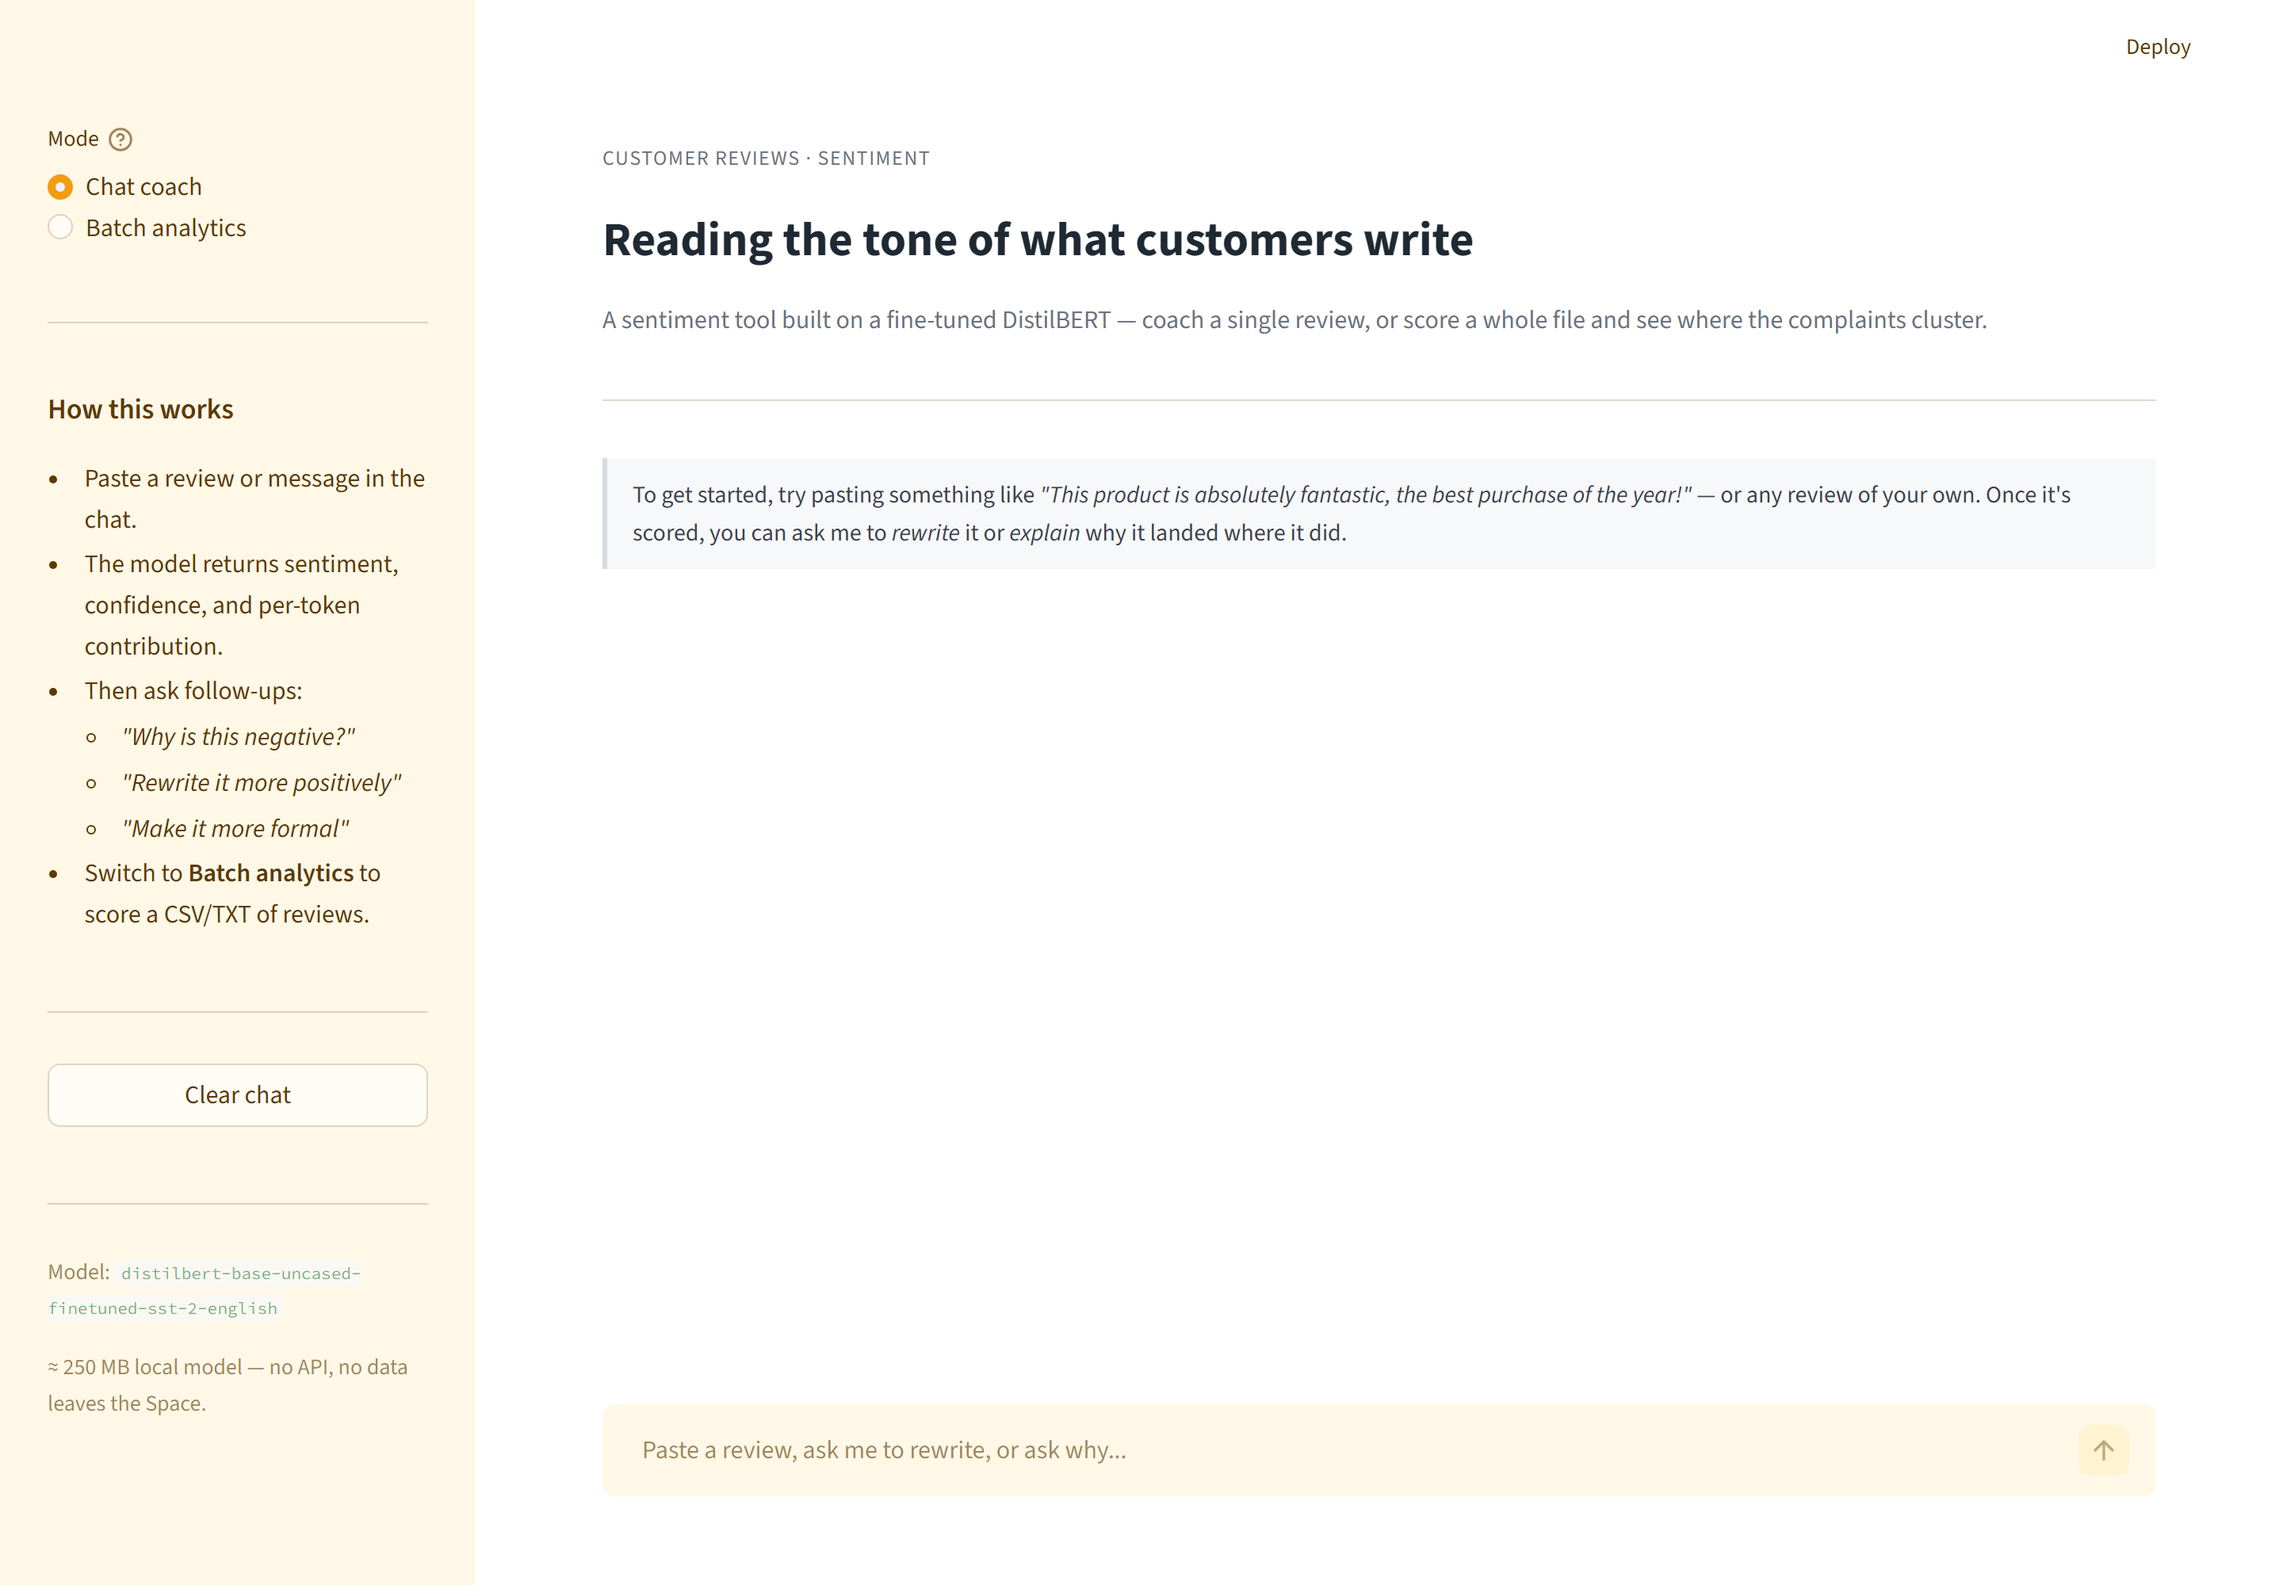
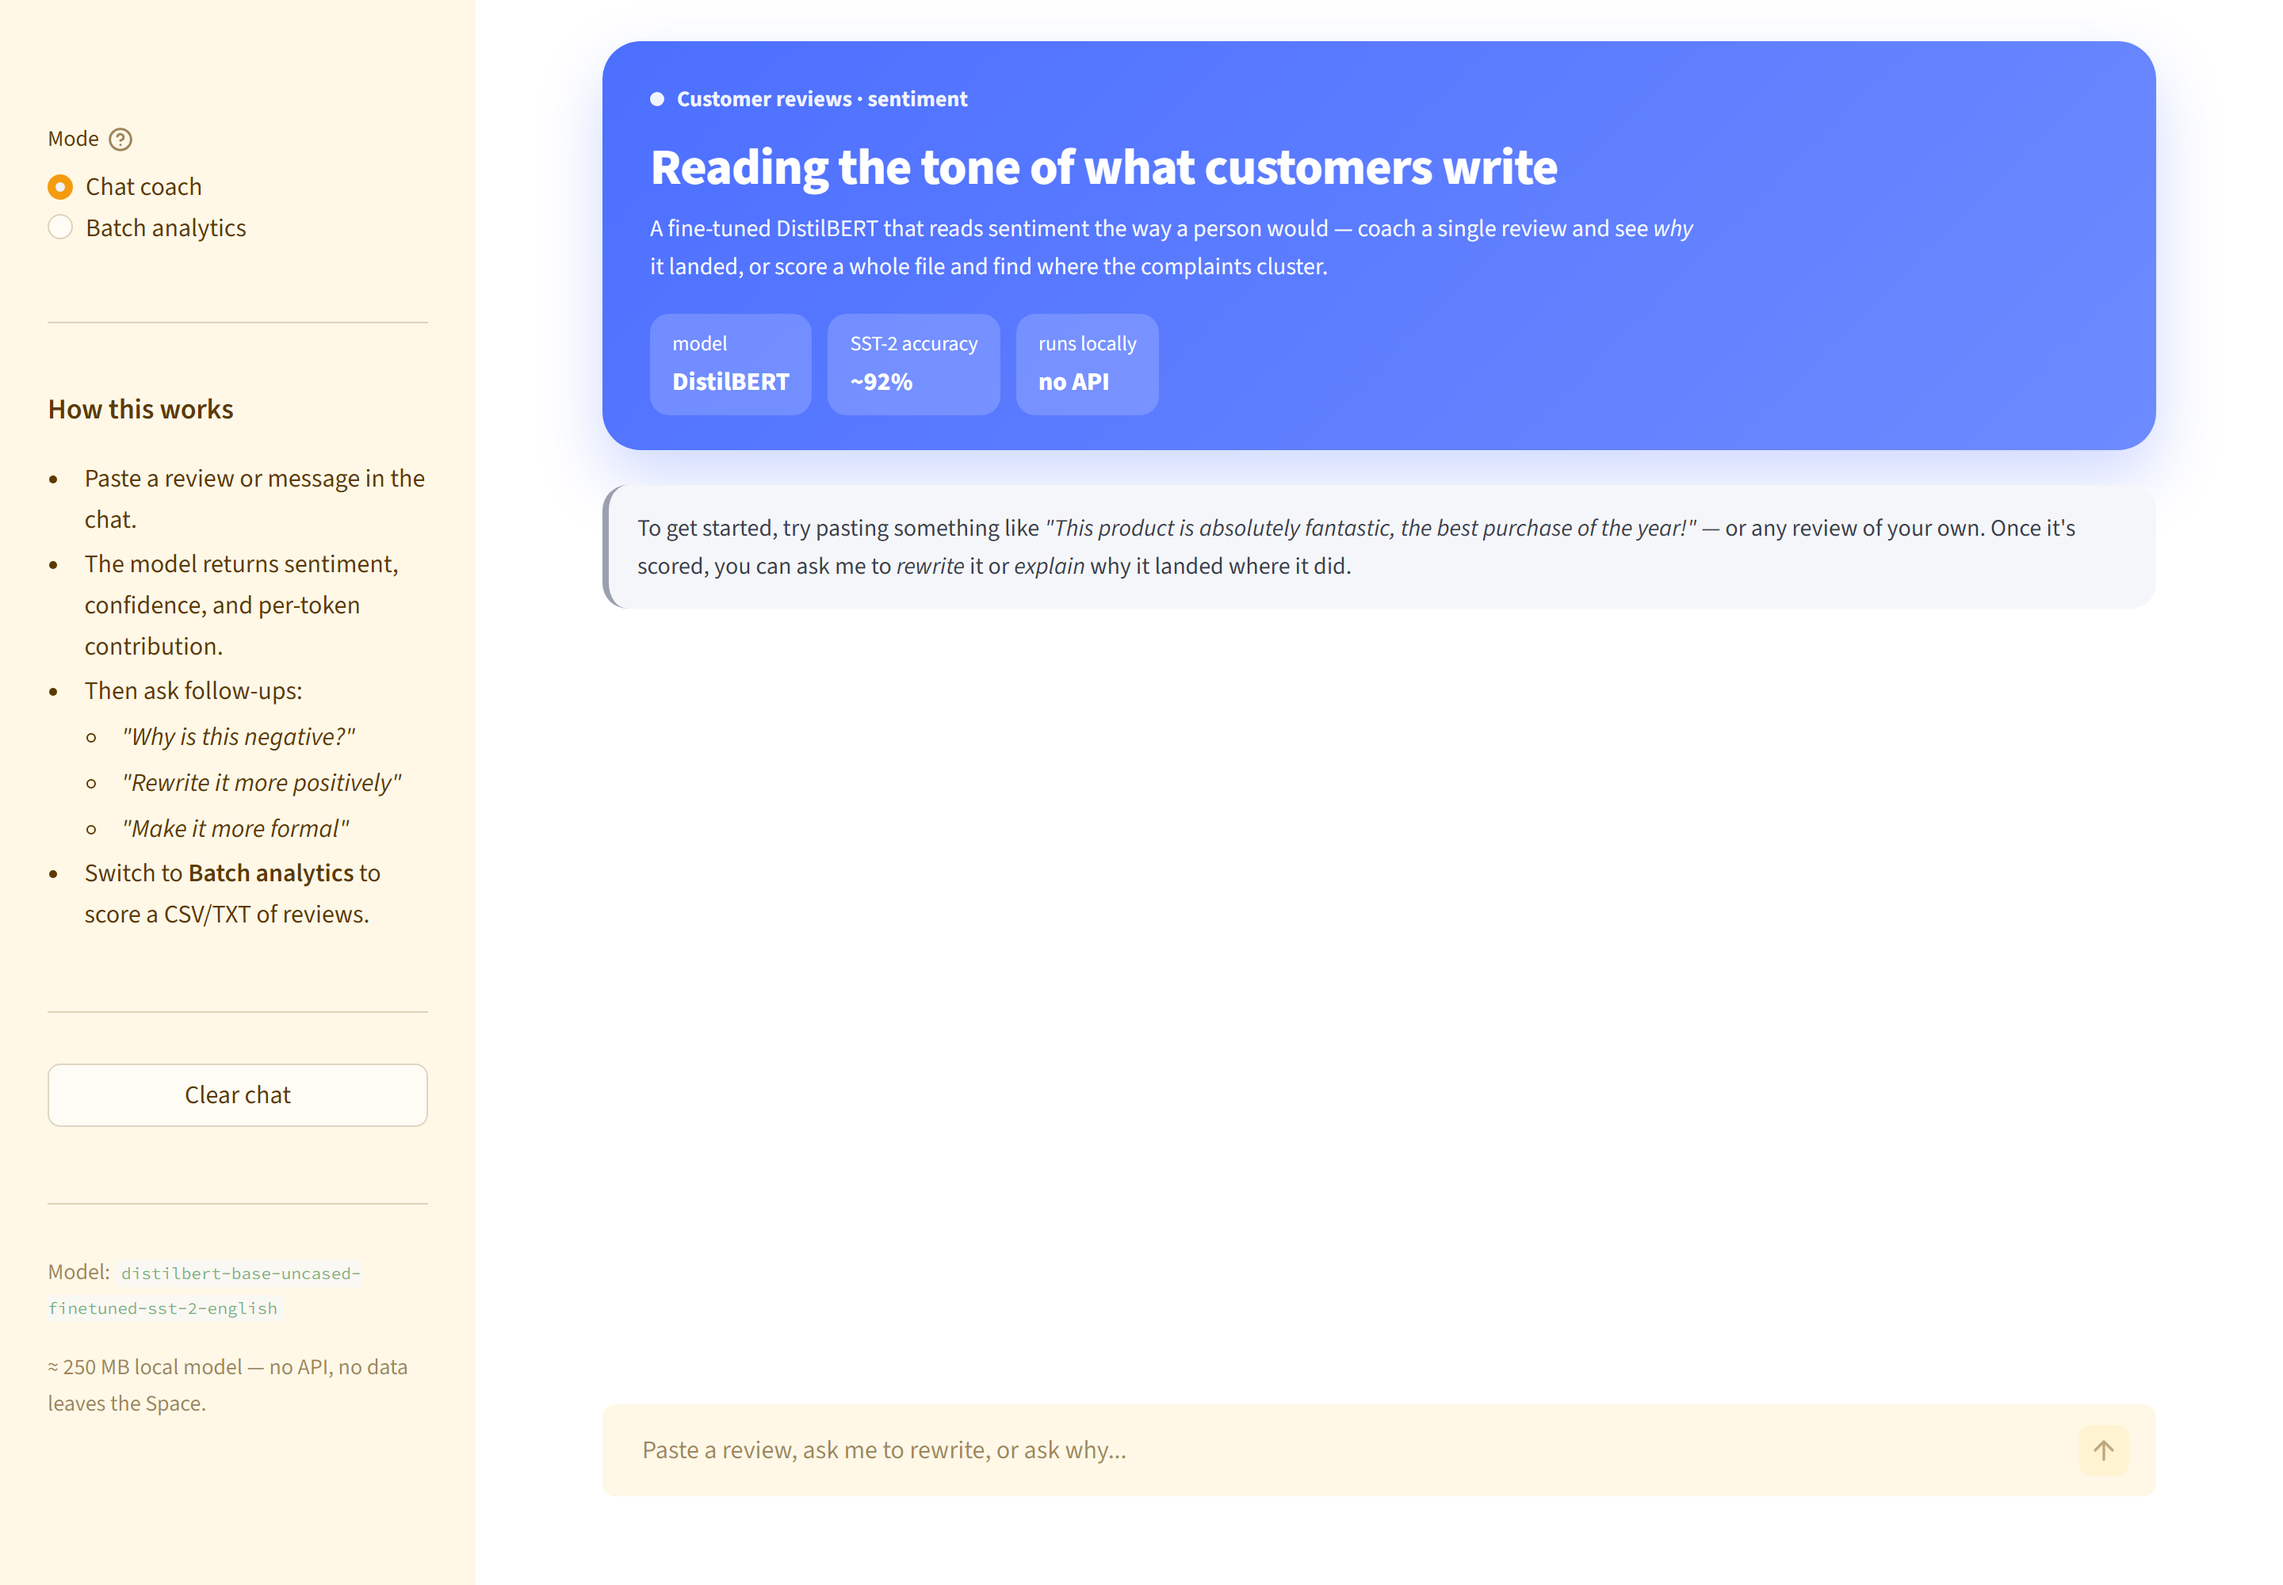
Redesign dashboard with a fintech-app look
Blue gradient hero with model-fact chips, metric cards, Manrope type and
a cohesive palette. Refresh the preview screenshot.

Changed region(s): [[0.25, 0.0, 0.9688, 0.372]]

diff --git a/dashboard.py b/dashboard.py
@@ -37,11 +37,19 @@ ASPECT_KEYWORDS: dict[str, list[str]] = {
                  "ticket", "response", "fix", "repair"],
 }
 
-# A calm, professional palette — not the marketing-hero template look.
-INK = "#1f2933"
-MUTED = "#6b7280"
-POS = "#4b9e7a"      # muted green for positive
-NEG = "#b4452f"      # warm brick for negative
+# ---- Fintech palette -------------------------------------------------------
+BRAND = "#4C6FFF"      # electric blue
+BRAND2 = "#6D8BFF"     # lighter blue, for the hero gradient
+INK = "#16161D"
+MUTED = "#5B6172"
+BODY = "#5B6172"
+GREY = "#9AA0AE"
+SOFT = "#F5F6FA"
+LINE = "#EEF0F4"
+FONT = "Manrope"
+POS = "#16B364"      # green for positive
+NEG = "#FF5A5F"      # coral for negative
+WARN = "#FB8C00"
 PLOT_TEMPLATE = "plotly_white"
 
 st.set_page_config(
@@ -53,48 +61,80 @@ st.set_page_config(
 st.markdown(
     f"""
     <style>
-    #MainMenu, footer {{visibility: hidden;}}
-    .badge {{
-        display: inline-block; padding: 4px 12px; border-radius: 20px;
-        font-size: 12px; font-weight: 700; letter-spacing: 0.6px;
-        color: white; margin: 0 4px;
+    @import url('https://fonts.googleapis.com/css2?family=Manrope:wght@400;500;600;700;800&display=swap');
+    html, body, [class*="css"], .stMarkdown, button, input, textarea {{
+        font-family: '{FONT}', system-ui, sans-serif;
     }}
-    .badge.pos {{ background: {POS}; }}
-    .badge.neg {{ background: {NEG}; }}
+    #MainMenu, header, footer {{ visibility: hidden; }}
+    .block-container {{ padding-top: 1.6rem; padding-bottom: 3rem; max-width: 1180px; }}
+
+    .badge {{ display:inline-block; padding:5px 14px; border-radius:999px;
+        font-size:12px; font-weight:700; letter-spacing:.6px; color:#fff; margin:0 4px; }}
+    .badge.pos {{ background:{POS}; }}
+    .badge.neg {{ background:{NEG}; }}
+
+    .hero {{ background: linear-gradient(135deg, {BRAND} 0%, {BRAND2} 100%);
+        border-radius: 24px; padding: 26px 30px 22px 30px; color:#fff;
+        box-shadow: 0 18px 40px rgba(76,111,255,.26); }}
+    .hero .brand {{ font-size:14px; font-weight:700; opacity:.92; display:flex;
+        align-items:center; gap:8px; }}
+    .hero .dot {{ width:9px; height:9px; border-radius:50%; background:#fff; display:inline-block; }}
+    .hero .value {{ font-size:32px; font-weight:800; line-height:1.12; margin-top:14px; letter-spacing:-.5px; }}
+    .hero .sub {{ font-size:15px; opacity:.95; margin-top:8px; max-width:660px; }}
+    .chips {{ display:flex; gap:10px; flex-wrap:wrap; margin-top:18px; }}
+    .chip {{ background: rgba(255,255,255,.18); border-radius:12px; padding:9px 14px; font-size:13px; }}
+    .chip b {{ font-size:16px; font-weight:800; display:block; }}
+
+    .callout {{ border-radius:16px; padding:15px 18px; margin:6px 0 20px 0;
+        font-size:15px; line-height:1.6; color:#3a3f4d; }}
+
+    [data-testid="stMetric"] {{ background:#fff; border:1px solid #F0F1F5; border-radius:16px;
+        padding:14px 18px; box-shadow:0 1px 3px rgba(20,22,30,.05), 0 8px 22px rgba(20,22,30,.04); }}
+    [data-testid="stMetricValue"] {{ font-weight:800; color:{INK}; }}
+    [data-testid="stMetricLabel"] p {{ font-weight:600; color:{BODY}; }}
     </style>
 
-    <div style="margin:-6px 0 6px 0;">
-      <div style="font-size:13px; letter-spacing:.8px; color:{MUTED};
-                  text-transform:uppercase;">Customer reviews &middot; sentiment</div>
-      <h1 style="margin:2px 0 4px 0; font-size:30px; font-weight:700; color:{INK};">
-        Reading the tone of what customers write</h1>
-      <div style="font-size:16px; color:{MUTED};">
-        A sentiment tool built on a fine-tuned DistilBERT — coach a single review,
-        or score a whole file and see where the complaints cluster.</div>
+    <div class="hero">
+      <div class="brand"><span class="dot"></span> Customer reviews &middot; sentiment</div>
+      <div class="value">Reading the tone of what customers write</div>
+      <div class="sub">A fine-tuned DistilBERT that reads sentiment the way a person would —
+        coach a single review and see <i>why</i> it landed, or score a whole file and find
+        where the complaints cluster.</div>
+      <div class="chips">
+        <span class="chip">model <b>DistilBERT</b></span>
+        <span class="chip">SST-2 accuracy <b>~92%</b></span>
+        <span class="chip">runs locally <b>no API</b></span>
+      </div>
     </div>
     """,
     unsafe_allow_html=True,
 )
-st.divider()
+st.write("")
 
 
-def note(text: str) -> None:
-    """A quiet analyst's note — sentence-case, no shouting, woven into the page."""
+def note(text: str, tone: str = "neutral") -> None:
+    bg = {"brand": "#EEF1FF", "good": "#E9FBF3", "warn": "#FFF6E9", "neutral": SOFT}[tone]
+    bar = {"brand": BRAND, "good": POS, "warn": WARN, "neutral": GREY}[tone]
     st.markdown(
-        f'<div style="border-left:3px solid #d7dbe0; background:#f7f8fa; '
-        f'padding:11px 16px; margin:4px 0 22px 0; color:#3a434d; '
-        f'font-size:15px; line-height:1.6;">{text}</div>',
+        f'<div class="callout" style="background:{bg};border-left:4px solid {bar};">{text}</div>',
         unsafe_allow_html=True,
     )
 
 
-def style_fig(fig, height=340):
+def style_fig(fig, height=340, legend=False):
     fig.update_layout(
         template=PLOT_TEMPLATE,
         height=height,
-        margin=dict(l=10, r=10, t=30, b=10),
-        font=dict(color=INK, size=13),
+        margin=dict(l=8, r=8, t=30, b=8),
+        font=dict(family=FONT, color=INK, size=13),
+        paper_bgcolor="rgba(0,0,0,0)",
+        plot_bgcolor="rgba(0,0,0,0)",
+        showlegend=legend,
     )
+    if fig.layout.title.text:
+        fig.update_layout(title_font=dict(family=FONT, size=15, color=INK))
+    fig.update_xaxes(gridcolor=LINE, zeroline=False)
+    fig.update_yaxes(gridcolor=LINE, zeroline=False)
     return fig
 
 
@@ -322,8 +362,8 @@ def render_score(s: dict, text: str) -> None:
                 "bar": {"color": colour},
                 "bgcolor": "white", "borderwidth": 0,
                 "steps": [
-                    {"range": [0, 50], "color": "#f7e4de"},
-                    {"range": [50, 100], "color": "#eaf5ef"},
+                    {"range": [0, 50], "color": "#FFECEC"},
+                    {"range": [50, 100], "color": "#E9FBF3"},
                 ],
             },
         ))
@@ -428,7 +468,7 @@ with st.sidebar:
 
 if mode == "Chat coach":
     for turn in st.session_state.history:
-        with st.chat_message(turn["role"], avatar=("🧑" if turn["role"] == "user" else "🤖")):
+        with st.chat_message(turn["role"]):
             if turn.get("text"):
                 st.markdown(turn["text"])
             if turn.get("score"):
@@ -445,10 +485,10 @@ if mode == "Chat coach":
     prompt = st.chat_input("Paste a review, ask me to rewrite, or ask why...")
     if prompt:
         st.session_state.history.append({"role": "user", "text": prompt, "scored_text": prompt})
-        with st.chat_message("user", avatar="🧑"):
+        with st.chat_message("user"):
             st.markdown(prompt)
 
-        with st.chat_message("assistant", avatar="🤖"):
+        with st.chat_message("assistant"):
             with st.spinner("Thinking..."):
                 result = respond(prompt, st.session_state.history)
             if result.get("text"):
@@ -568,7 +608,7 @@ else:
             fig = px.bar(
                 grp, x="mean_score", y="aspect", orientation="h",
                 color="mean_score",
-                color_continuous_scale=[NEG, "#c98a3a", POS],
+                color_continuous_scale=[NEG, WARN, POS],
                 range_color=[0, 1],
                 text=grp["mean_score"].map(lambda x: f"{x*100:.0f}%"),
                 hover_data={"mentions": True, "pos_share": ":.0%",
